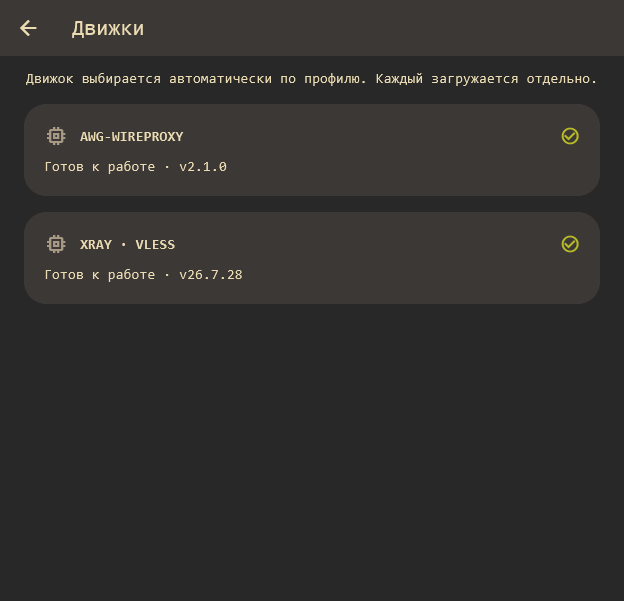
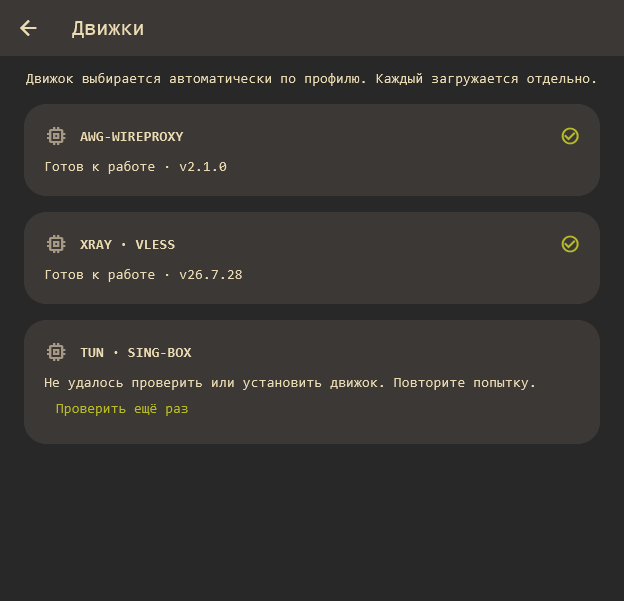
Обновить README и снимки интерфейса, запускать проверку TUN

Changed region(s): [[0.0609, 0.629, 0.609, 0.6889], [0.0609, 0.5691, 0.3045, 0.599], [0.6394, 0.629, 0.8526, 0.6589]]

diff --git a/apps/desktop/tool/capture_readme.dart b/apps/desktop/tool/capture_readme.dart
@@ -20,13 +20,20 @@ Future<void> main(List<String> args) async {
   try {
     await driver.runUnsynchronized(() async {
       await driver.waitFor(find.byTooltip('Подключить'));
+      await driver.requestData('main-window');
       await shot('01-main');
       await tap(find.byTooltip('Настройки'));
+      await driver.requestData('compact-window');
       await shot('02-menu');
       await tap(find.text('Движки'));
+      await driver.waitForAbsent(
+        find.text('Проверяем движок…'),
+        timeout: const Duration(seconds: 100),
+      );
       await shot('03-engine');
       await back();
       await tap(find.text('Профили'));
+      await driver.requestData('profiles-window');
       await driver.waitFor(find.text('Мой профиль'));
       await shot('04-profiles');
       await tap(find.text('Из файла'));
@@ -48,12 +55,21 @@ Future<void> main(List<String> args) async {
       await shot('09-profile-checked');
       await back();
       await tap(find.text('Общие'));
+      await driver.requestData('settings-window');
       await shot('08-settings');
+      await tap(find.text('Пропускать весь трафик через VPN'));
+      await driver.scrollIntoView(
+        find.text('Снять блокировку интернета'),
+        alignment: 0.8,
+      );
+      await shot('11-vpn-settings');
       await back();
       await tap(find.text('Диагностика'));
+      await driver.requestData('compact-window');
       await shot('10-diagnostics');
       await back();
       await back();
+      await driver.requestData('main-window');
     });
   } finally {
     await driver.close();

diff --git a/apps/desktop/tool/readme_main.dart b/apps/desktop/tool/readme_main.dart
@@ -28,7 +28,12 @@ class _DemoVault implements ProfileVault {
 Future<void> main() async {
   enableFlutterDriverExtension(
     handler: (message) async {
-      final height = message == 'settings-window' ? 780.0 : 640.0;
+      final height = switch (message) {
+        'settings-window' => 940.0,
+        'main-window' => 1040.0,
+        'compact-window' => 640.0,
+        _ => 780.0,
+      };
       await windowManager.setSize(Size(640, height));
       return 'ok';
     },
@@ -37,7 +42,7 @@ Future<void> main() async {
   // ignore: invalid_use_of_visible_for_testing_member
   SharedPreferences.setMockInitialValues({});
   await WindowPlacement.initialize(preferenceKey: 'readme-window');
-  await windowManager.setSize(const Size(640, 640));
+  await windowManager.setSize(const Size(640, 1040));
   final awg = EngineManager(), xray = EngineManager(policy: xrayPolicy);
   final profile = await ProfileCodec().decode(
     utf8.encode(

diff --git a/apps/desktop/lib/features/dashboard/dashboard_page.dart b/apps/desktop/lib/features/dashboard/dashboard_page.dart
@@ -78,6 +78,7 @@ class _DashboardPageState extends State<DashboardPage>
     }
     if (widget.engine != null) unawaited(widget.engine!.check());
     if (widget.xray != null) unawaited(widget.xray!.check());
+    unawaited(_tun.check());
     _initialization = _loadProfileAndStartup();
     unawaited(_autoconnect());
   }

diff --git a/README.md b/README.md
@@ -2,7 +2,7 @@
 
 <img src="apps/desktop/assets/branding/app_icon.png" width="96" alt="Amnezia Proxy Manager">
 
-Кроссплатформенный Flutter Desktop интерфейс для локального SOCKS5/HTTP-прокси через AmneziaWG или VLESS. Целевые ОС: Windows, macOS и Linux; оформление Gruvbox Dark/Light.
+Кроссплатформенный Flutter Desktop интерфейс для локального SOCKS5/HTTP-прокси и полного VPN через AmneziaWG или VLESS. Целевые ОС: Windows, macOS и Linux; оформление Gruvbox Dark/Light.
 
 **[Скачать последнюю версию](https://github.com/Hecatoncheir/amnezia-proxy-manager/releases/latest)** · [История изменений](Changelog.md) · [План реализации](TODO.md)
 
@@ -19,6 +19,7 @@
 - [Выбор и загрузка движка](#выбор-и-загрузка-движка)
 - [Добавление профиля](#добавление-профиля)
 - [Подключение и отключение](#подключение-и-отключение)
+- [Весь трафик через VPN и блокировка при обрыве](#весь-трафик-через-vpn-и-блокировка-при-обрыве)
 - [Выбор локальных портов](#выбор-локальных-портов)
 - [Настройка браузера и других программ](#настройка-браузера-и-других-программ)
 - [Автозапуск и автоподключение](#автозапуск-и-автоподключение)
@@ -84,7 +85,7 @@ sh ./AmneziaProxyManager-linux-x64.run
 
 После запуска прокси укажите его в браузере или другой программе: **SOCKS5 `127.0.0.1:1080`** либо **HTTP `127.0.0.1:8080`**. В обычном режиме через него работают только настроенные программы.
 
-В рабочем дереве добавлен режим **«Пропускать весь трафик через VPN»** для Windows x64, Linux x64 и macOS arm64: локальные прокси остаются доступны, остальные приложения направляются в TUN. Отдельная блокировка интернета при обрыве включена по умолчанию. При подключении система запрашивает повышенные права. Функция ещё требует сетевой приёмки и не входит в опубликованный v0.1.14; поведение, восстановление сети и ограничения описаны в [TUN.md](docs/TUN.md).
+Начиная с v0.1.15 доступен режим **«Пропускать весь трафик через VPN»** для Windows x64, Linux x64 и macOS arm64: локальные прокси остаются доступны, остальные приложения направляются в TUN. Отдельная блокировка интернета при обрыве включена по умолчанию. При подключении система запрашивает повышенные права. Функция ещё требует сетевой приёмки; поведение, восстановление сети и ограничения описаны в [TUN.md](docs/TUN.md).
 
 Кнопка **«Настройки»** справа сверху открывает отдельный экран с разделами: общие настройки, профили, движки, диагностика и обновления. Для возврата используйте стрелку **«Назад»**:
 
@@ -196,6 +197,16 @@ HTTPS проверяется после запуска, затем каждые 
 
 Карточки загрузки и отправки показывают реальную скорость и объём TCP-трафика через локальные SOCKS5 и HTTP. Счётчики обновляются раз в секунду, включают служебные заголовки и HTTPS-проверки, но не учитывают внешний VPN-overhead и трафик других приложений вне прокси. После отключения скорость становится нулевой, объём остаётся видимым; новый запуск движка, включая восстановление, начинает новый сеанс.
 
+## Весь трафик через VPN и блокировка при обрыве
+
+В **Настройки → Общие** включите **«Пропускать весь трафик через VPN»**, затем подключитесь на главном экране. При первом запуске менеджер загрузит проверенный компонент TUN, а система запросит права администратора. SOCKS5 и HTTP на локальных портах остаются доступны.
+
+![Настройки полного VPN и блокировки интернета при обрыве](docs/screenshots/11-vpn-settings.png)
+
+**«Блокировать интернет при обрыве VPN»** включено по умолчанию и действует в режиме всего трафика. Блокировка сохраняется при сбое и повторном подключении; ручное отключение снимает её. Если после аварии приложения интернет остался заблокирован, откройте этот экран и нажмите **«Снять блокировку интернета»**.
+
+Linux x64 требует `nftables` и polkit (`pkexec`); macOS arm64 использует PF и системный диалог авторизации. В macOS установка защиты сбрасывает существующие состояния PF, поэтому текущие сетевые соединения могут прерваться. Проверки с реальными профилями и аварийными обрывами на каждой ОС ещё предстоят. Требования, ограничения и восстановление из терминала: [TUN.md](docs/TUN.md).
+
 ## Диагностика подключения
 
 Откройте **Настройки → Диагностика → Проверить подключение**. Проверка последовательно проверит профиль и движок, оба локальных порта, запуск прокси и HTTPS через SOCKS5. Если прокси был отключён, он временно запускается и останавливается после проверки; работающее соединение остаётся подключённым. Диагностика может скачать отсутствующий совместимый движок. На экране показывается причина сбоя и следующий шаг, без ключей и конфигурации.
@@ -249,7 +260,7 @@ curl.exe -I --max-time 30 --proxy http://127.0.0.1:8080 https://example.com/
 
 ## Автозапуск и автоподключение
 
-Откройте **Настройки → Общие**. Все переключатели по умолчанию выключены.
+Откройте **Настройки → Общие**. Автозапуск, автоподключение и сворачивание в трей по умолчанию выключены.
 
 ![Общие настройки: тема, автозапуск и автоподключение](docs/screenshots/08-settings.png)
 
@@ -309,7 +320,7 @@ curl.exe -I --max-time 30 --proxy http://127.0.0.1:8080 https://example.com/
 | macOS arm64 | Сборка, автоматические тесты и DMG | Нативная VPN-сеть, Keychain, автозапуск/автоподключение, аварийные сценарии и установленная копия |
 | Linux x64 | Сборка, автоматические тесты и `.run` | Нативная VPN-сеть, Secret Service, автозапуск/автоподключение и установленная копия |
 
-Обычный режим предоставляет локальный прокси для настроенных на него программ. Режим системного VPN и блокировка при обрыве добавлены для Windows x64, Linux x64 и macOS arm64 в рабочем дереве; проверка реальных DNS/IPv6-утечек и аварийных сценариев ещё не завершена. До такой приёмки защита всего компьютера не считается подтверждённой. Полные результаты: [VALIDATION.md](docs/VALIDATION.md), [управление сессией](docs/SESSION.md), [TUN](docs/TUN.md).
+Обычный режим предоставляет локальный прокси для настроенных на него программ. В v0.1.15 добавлены режим системного VPN и блокировка при обрыве для Windows x64, Linux x64 и macOS arm64; проверка реальных DNS/IPv6-утечек и аварийных сценариев ещё не завершена. До такой приёмки защита всего компьютера не считается подтверждённой. Полные результаты: [VALIDATION.md](docs/VALIDATION.md), [управление сессией](docs/SESSION.md), [TUN](docs/TUN.md).
 
 ## Разработка и техническая документация
 
@@ -320,7 +331,7 @@ curl.exe -I --max-time 30 --proxy http://127.0.0.1:8080 https://example.com/
 
 ## Техническое состояние
 
-Версия приложения — 0.1.14; реализованы отдельная загрузка движка, импорт AmneziaVPN/AmneziaWG, системное хранение ключей и проверка конфигурации. Есть Flutter runners трёх ОС, темы, установщики, обновление приложения и CI. Подключение AmneziaWG/VLESS управляется круглой кнопкой через Go supervisor. На Windows проверены запуск/остановка и HTTPS через Xray; полный нативный прогон других ОС ещё предстоит.
+Версия приложения — 0.1.15; реализованы отдельная загрузка движка, импорт AmneziaVPN/AmneziaWG, системное хранение ключей и проверка конфигурации. Есть Flutter runners трёх ОС, темы, установщики, обновление приложения и CI. Подключение AmneziaWG/VLESS управляется круглой кнопкой через Go supervisor. На Windows проверены запуск/остановка и HTTPS через Xray; сетевой прогон полного VPN на трёх ОС ещё предстоит.
 
 Сетевой движок — [bropines/awg-wireproxy](https://github.com/bropines/awg-wireproxy), проверенный выпуск **v2.1.0**, ревизия `02588433b6328171b594d76f3f16bd3404258a83`, лицензия ISC. Он загружается отдельно напрямую из GitHub Releases автора. Приложение при запуске предлагает последнюю проверенную совместимую версию, проверяет архив и бинарник по SHA-256, архитектуру и CLI, хранит runtime вне установки. Загрузка и повторный запуск без сети проверены на Windows. Импорт профилей и проверка конфигурации реализованы в M2; подключение из UI и управление процессом реализованы в M3. Подробнее: [аудит M1](docs/UPSTREAM.md) · [схема загрузки движка](docs/ENGINE-RUNTIME.md).
 

diff --git a/docs/TUN.md b/docs/TUN.md
@@ -1,6 +1,6 @@
 # Весь трафик через VPN и блокировка при обрыве
 
-Реализация в рабочем дереве от 2026-10-21. В опубликованный v0.1.14 не входит. Поддерживаемые цели: Windows x64, Linux x64 и macOS arm64 (Apple Silicon). Переключатель доступен на всех трёх ОС; локальные прокси сохраняются.
+Добавлено в v0.1.15 от 2026-10-21. Поддерживаемые цели: Windows x64, Linux x64 и macOS arm64 (Apple Silicon). Переключатель доступен на всех трёх ОС; локальные прокси сохраняются.
 
 ## Использование
 
@@ -94,7 +94,7 @@ $env:APM_TEST_TUN_BINARY = 'C:\абсолютный\путь\sing-box.exe'
 go test ./internal/fullvpn -run TestRealTunConfiguration -v
 ```
 
-Для Linux в CI добавлен `TestLinuxNftIntegration`: отдельный network namespace, IPv4/IPv6, проверка отбрасывания прямых UDP-пакетов и разрешения loopback/TUN/портов сервера, замена и удаление правил. В macOS добавлен `TestPFNativeSyntax`: настоящий `pfctl -n`, без установки правил и сброса состояний. На текущем Windows-хосте эти нативные проверки не запускались: выполнены кросс-компиляция и проверка настоящих TAR.GZ, размеров, SHA-256, ELF/Mach-O и лицензий. Нативное исполнение Unix-бинарников и работа их TUN здесь не подтверждены.
+Для Linux в CI добавлен `TestLinuxNftIntegration`: отдельный network namespace, IPv4/IPv6, проверка отбрасывания прямых UDP-пакетов и разрешения loopback/TUN/портов сервера, замена и удаление правил. В macOS добавлен `TestPFNativeSyntax`: настоящий `pfctl -n`, без установки правил и сброса состояний. Обе проверки прошли на нативных runners в [CI 39644353091](https://github.com/Hecatoncheir/amnezia-proxy-manager/actions/runs/39644353091), вместе с тестами и сборками трёх ОС. На Windows также проверены настоящие TAR.GZ, размеры, SHA-256, ELF/Mach-O и лицензии. Полное соединение Unix TUN с реальными профилями этими проверками не подтверждено.
 
 До подтверждения готовности нужны проверки на каждой ОС с настоящими профилями AWG и VLESS:
 

diff --git a/TODO.md b/TODO.md
@@ -13,7 +13,7 @@
 - [x] Linux: отдельная атомарно обновляемая таблица nftables для IPv4/IPv6, loopback/TUN и ограниченных исключений VPN-сервера.
 - [x] macOS: отдельный PF anchor и собственный токен включения; проверка конфликтов и `skip`, наблюдатель за аварией родителя сетевых процессов.
 - [x] В CI добавлены изолированная Linux-проверка IPv4/IPv6 в network namespace и безопасный разбор правил PF на macOS.
-- [ ] Выполнить добавленные нативные CI-проверки; текущая Windows-машина подтверждает только кросс-компиляцию и разбор пакетов этих ОС.
+- [x] Нативные проверки Linux nftables и синтаксиса macOS PF прошли в [CI 39644353091](https://github.com/Hecatoncheir/amnezia-proxy-manager/actions/runs/39644353091), как и тесты и сборки трёх ОС. Полный сетевой прогон TUN с реальными профилями остаётся отдельной приёмкой.
 - [ ] Учёт системного трафика TUN в скорости и счётчиках.
 
 Отметка [x] означает наличие в репозитории, а не готовность продукта. Milestones — план для будущих GitHub Issues; удалённые milestones не созданы.

diff --git a/Changelog.md b/Changelog.md
@@ -4,6 +4,7 @@
 
 ## v0.1.15 — 2026-10-21
 
+- Обновлены снимки интерфейса в README; добавлена инструкция по полному VPN и снятию блокировки после сбоя.
 - Добавлен переключатель «Пропускать весь трафик через VPN» для Windows x64, Linux x64 и macOS arm64. Локальные SOCKS5 и HTTP-прокси продолжают работать.
 - Добавлена отдельная блокировка интернета при обрыве VPN, включённая по умолчанию: WFP в Windows, nftables в Linux и PF в macOS. Предусмотрено ручное снятие блокировки.
 - DNS направляется через VPN; параметры TUN и файлы движков проверяются перед запуском. Системные права запрашиваются только для полного туннеля и управления блокировкой.
